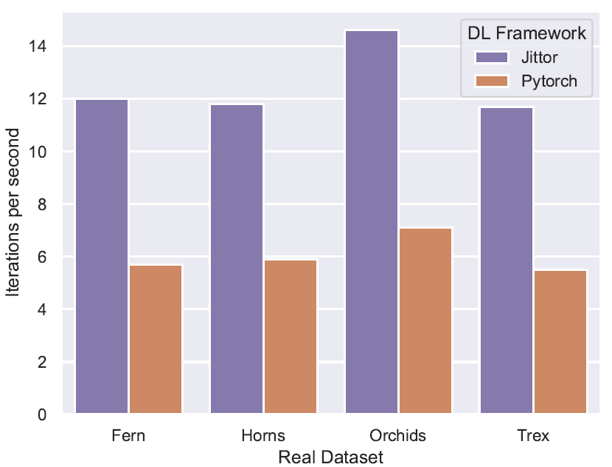
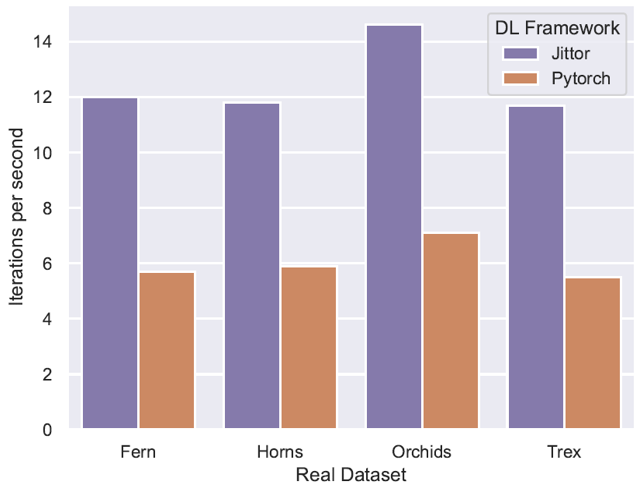
update readme

diff --git a/README.md b/README.md
@@ -359,25 +359,27 @@ python nerf.py --config configs/lego.txt
 下图是NERF在合成场景下的渲染效果：
 
 <p align="left">
-<img src="data/imgs/lego.gif" width="260" style="max-width:50%;">
-<img src="data/imgs/hotdog.gif" width="260" style="max-width:50%;">
-<img src="data/imgs/mic.gif" width="260" style="max-width:50%;">
+<img src="data/imgs/lego.gif" width="290" style="max-width:50%;">
+<img src="data/imgs/hotdog.gif" width="290" style="max-width:50%;">
+<img src="data/imgs/mic.gif" width="290" tyle="max-width:50%;">
 </p>
+
 
 下图是NERF在真实场景下的渲染效果：
 
 <p align="left">
-<img src="data/imgs/fern.gif" width="260" style="max-width:50%;">
-<img src="data/imgs/flower.gif" width="260" style="max-width:50%;">
-<img src="data/imgs/horn.gif" width="260" style="max-width:50%;">
+<img src="data/imgs/fern.gif" width="290" style="max-width:50%;">
+<img src="data/imgs/flower.gif" width="290" style="max-width:50%;">
+<img src="data/imgs/horn.gif" width="290" style="max-width:50%;">
 </p>
+
 
 基于Jittor版本的NERF比Pytoch版本的NERF在速度上有明显优势，我们的训练速度是Pytorch版本的1.92-2.27倍，在不同数据集上具体的迭代速度如下：
 
 <p align="left">
-<img src="data/imgs/Synthesized.png" width="400" style="max-width:50%;">
-<img src="data/imgs/Real.png" width="400" style="max-width:50%;">
+<img src="data/imgs/Speed.png" width="1000" style="max-width:100%;">
 </p>
+
 
 ## Citation
 
